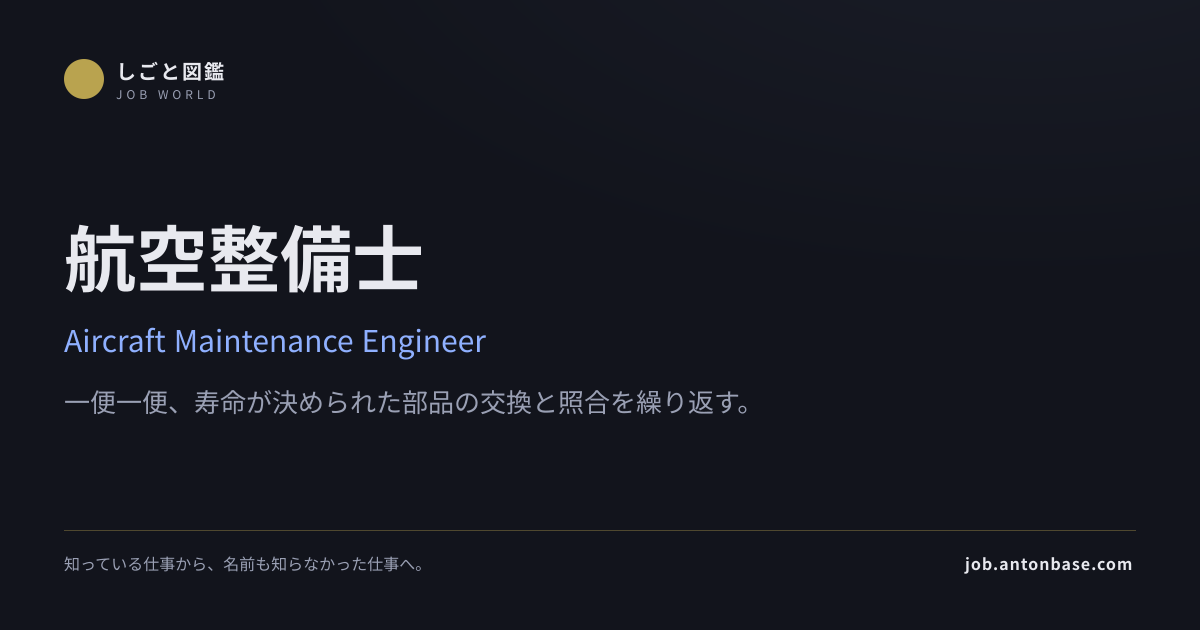
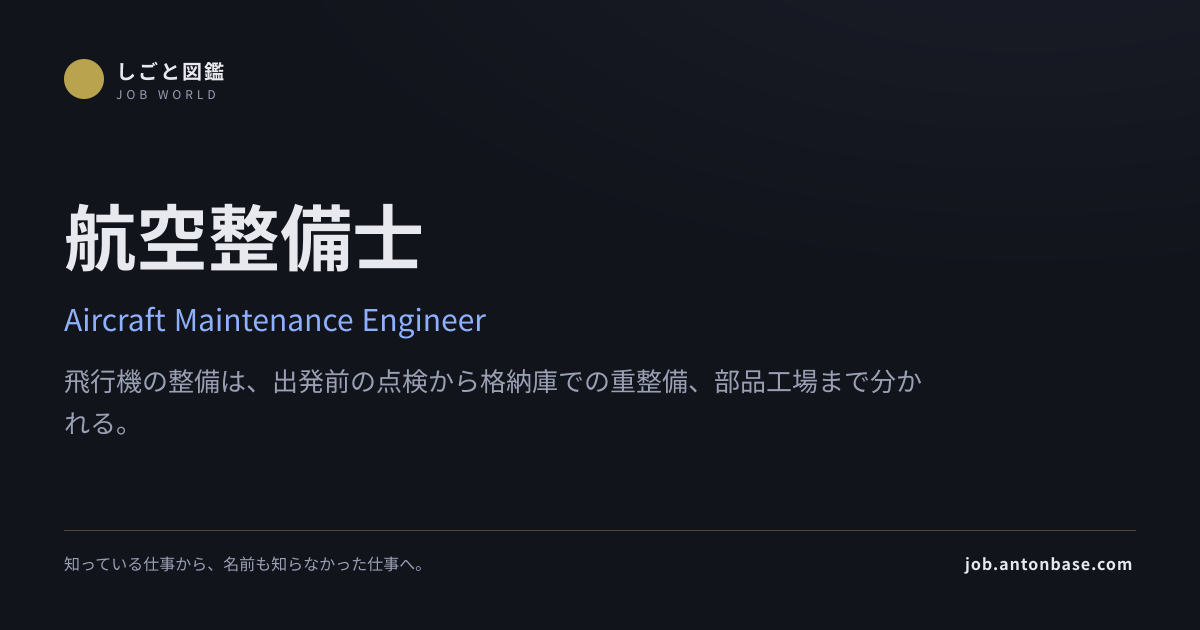
[SEO] 航空整備士ページをライン・ドック・ショップの現場別進路判断ガイドに改修し、未検証年収断定を撤去
Sites Operator implementation task: 4bb23b5a-0eba-4f1f-853e-b6e0fe72279f
Site: wiki-job-world
Publish this validated change on the default branch. Preview-only skip markers are deliberately excluded.

Changed region(s): [[0.0308, 0.3016, 0.7708, 0.6937]]

diff --git a/src/app/jobs/[slug]/page.tsx b/src/app/jobs/[slug]/page.tsx
@@ -19,6 +19,25 @@ import { Trail } from "@/components/Trail";
 import { RARITY_LABEL, FAMILIARITY_LABEL } from "@/lib/labels";
 import { shikakuLinkForJob } from "@/lib/shikaku";
 
+/** Structured paragraphs are opt-in via 【section】 markers in a job's existing text. */
+function JobNarrative({ text }: { text: string }) {
+  return (
+    <div className="mt-3 space-y-3">
+      {text.split(/\n{2,}/).map((paragraph, index) => {
+        const section = paragraph.match(/^【([^】]+)】([\s\S]*)$/);
+        return section ? (
+          <section key={index}>
+            <h3 className="font-semibold">{section[1]}</h3>
+            <p className="mt-1 whitespace-pre-line">{section[2]}</p>
+          </section>
+        ) : (
+          <p key={index} className="whitespace-pre-line">{paragraph}</p>
+        );
+      })}
+    </div>
+  );
+}
+
 export function generateStaticParams() {
   return getAllJobs().map((job) => ({ slug: job.slug }));
 }
@@ -186,14 +205,14 @@ export default async function JobPage({
 
       <section className="mt-8">
         <h2 className="text-xl font-bold">どんな仕事か</h2>
-        <p className="mt-3">{job.descriptionJa}</p>
-        {job.aDayJa && <p className="mt-3">{job.aDayJa}</p>}
+        <JobNarrative text={job.descriptionJa} />
+        {job.aDayJa && <JobNarrative text={job.aDayJa} />}
       </section>
 
       {job.howToBecomeJa && (
         <section className="mt-8">
           <h2 className="text-xl font-bold">どうやってなるか</h2>
-          <div className="mt-3 whitespace-pre-line">{job.howToBecomeJa}</div>
+          <JobNarrative text={job.howToBecomeJa} />
         </section>
       )}
 
